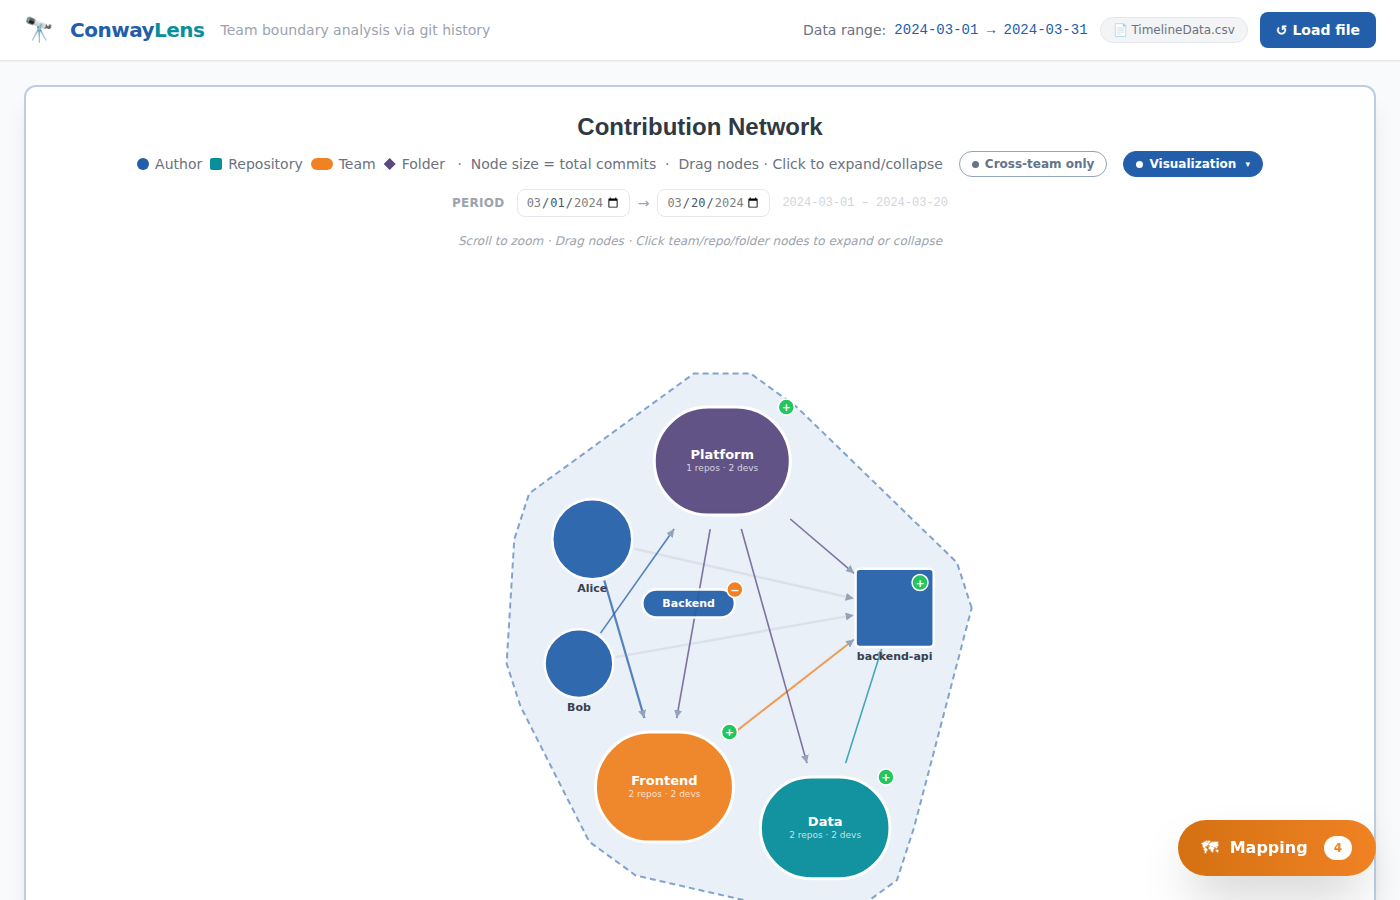
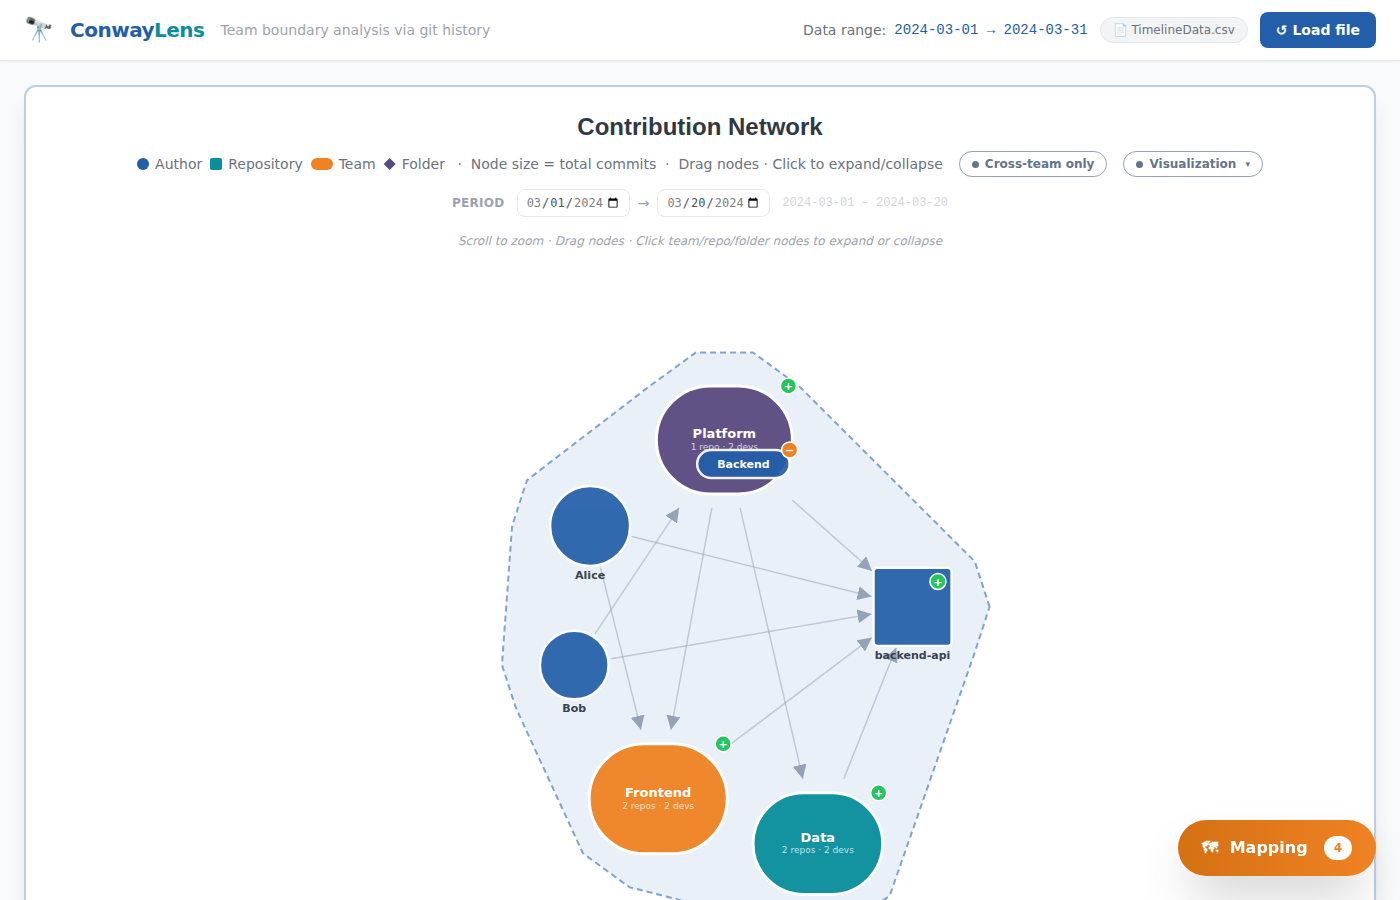
Improve default visibility and layout of contribution graph
- Edge weight (colored arrows + commit volume width) is now on by default
  so Conway violations are immediately visible without hunting in menus
- Arrowheads enlarged (8→14px) and use context-stroke so they match
  the edge color on cross-team edges
- Force repulsion and link distance scale with node count so all-
  expanded views spread out rather than collapsing to a dense center
- Anchor collapse pill repositioned above the cluster's topmost node
  instead of floating at the centroid where it overlapped other nodes
- Singular grammar: "1 repo" / "1 dev" in both node labels and tooltip

https://claude.ai/code/session_01F8cubb7Msre6DmWwvpHGnq

diff --git a/app/src/components/NetworkGraph.vue b/app/src/components/NetworkGraph.vue
@@ -102,7 +102,7 @@ const dims         = reactive({ w: 900, h: 600 });
 
 // Visualization panel state (ephemeral — not persisted)
 const vizOpen    = ref(false);
-const edgeWeight = ref(false);
+const edgeWeight = ref(true);
 const tooltip      = reactive({
   show: false, x: 0, y: 0,
   isLink: false,
@@ -124,7 +124,7 @@ const tooltipName = computed(() => {
 const tooltipDetail = computed(() => {
   const c = tooltip.commits.toLocaleString();
   if (tooltip.type === 'author') return `Author · ${c} commits`;
-  if (tooltip.type === 'team')   return `Team · ${tooltip.repoCount} repos · ${tooltip.authorCount} devs · ${c} commits`;
+  if (tooltip.type === 'team')   return `Team · ${tooltip.repoCount} ${tooltip.repoCount === 1 ? 'repo' : 'repos'} · ${tooltip.authorCount} ${tooltip.authorCount === 1 ? 'dev' : 'devs'} · ${c} commits`;
   if (tooltip.type === 'folder') return `Folder (depth ${tooltip.depth}) · ${c} commits`;
   return `Repository · ${c} commits`;
 });
@@ -313,9 +313,9 @@ function drawGraph() {
   svg.append('defs').append('marker')
     .attr('id', 'arrow')
     .attr('viewBox', '0 -5 10 10').attr('refX', 10).attr('refY', 0)
-    .attr('markerWidth', 8).attr('markerHeight', 8)
+    .attr('markerWidth', 14).attr('markerHeight', 14)
     .attr('markerUnits', 'userSpaceOnUse').attr('orient', 'auto')
-    .append('path').attr('d', 'M0,-5L10,0L0,5').attr('fill', EDGE_COLOR);
+    .append('path').attr('d', 'M0,-5L10,0L0,5').attr('fill', 'context-stroke');
 
   const root = svg.append('g');
   svg.call(d3.zoom().scaleExtent([0.2, 4]).on('zoom', e => root.attr('transform', e.transform)));
@@ -357,18 +357,19 @@ function drawGraph() {
     }
   }
 
+  // Scale repulsion and link distance with node count so all-expanded views don't collapse
+  const chargeScale = Math.max(1, nodes.length / 5);
+  const linkScale   = Math.max(1, Math.sqrt(nodes.length / 5));
+
   sim = d3.forceSimulation(nodes)
     .force('link',        d3.forceLink(links).id(d => d.id).distance(d => {
-      // Longer distance for team-to-team edges so team nodes spread apart
-      if (d.source.type === 'team' || d.target.type === 'team') return 280;
-      return 200;
+      if (d.source.type === 'team' || d.target.type === 'team') return 280 * linkScale;
+      return 200 * linkScale;
     }).strength(0.45))
-    .force('charge',      d3.forceManyBody().strength(d => d.type === 'team' ? -1200 : -700))
+    .force('charge',      d3.forceManyBody().strength(d => (d.type === 'team' ? -1200 : -700) * chargeScale))
     .force('center',      d3.forceCenter(w / 2, h / 2).strength(0.05))
     .force('x',           d3.forceX(d => {
       if (d.type === 'author') return w * 0.27;
-      // When all nodes are teams (collapsed default view), center them.
-      // When mixed with individual authors/repos, pull teams to right-center.
       if (d.type === 'team') {
         const hasIndividuals = nodes.some(n => n.type === 'author' || n.type === 'repo');
         return hasIndividuals ? w * 0.65 : w * 0.5;
@@ -480,7 +481,7 @@ function drawGraph() {
     .attr('dy', '1.1em')
     .attr('fill', 'rgba(255,255,255,0.75)').attr('font-size', '9px')
     .attr('pointer-events', 'none')
-    .text(d => `${d.repoCount} repos · ${d.authorCount} devs`);
+    .text(d => `${d.repoCount} ${d.repoCount === 1 ? 'repo' : 'repos'} · ${d.authorCount} ${d.authorCount === 1 ? 'dev' : 'devs'}`);
 
   // Folder nodes — diamond
   nodeEls.filter(d => d.type === 'folder')
@@ -661,21 +662,26 @@ function drawGraph() {
 
     nodeEls.attr('transform', d => `translate(${d.x ?? 0},${d.y ?? 0})`);
 
-    // Float each anchor pill at the centroid of its team's visible nodes
+    // Float each anchor pill above the topmost node of its team's cluster
     if (anchorEls) {
       anchorEls.attr('transform', function(t) {
         const authorIds = new Set(t.authors ?? []);
         const repoIds   = new Set(t.repos   ?? []);
-        let sumX = 0, sumY = 0, count = 0;
+        let minX = Infinity, maxX = -Infinity, minY = Infinity;
         for (const n of nodes) {
           if (n.x == null || n.y == null) continue;
           if (
             (n.type === 'author' && authorIds.has(n.id)) ||
             (n.type === 'repo'   && repoIds.has(n.id))   ||
             (n.type === 'folder' && repoIds.has(n.repoId))
-          ) { sumX += n.x; sumY += n.y; count++; }
+          ) {
+            minX = Math.min(minX, n.x);
+            maxX = Math.max(maxX, n.x);
+            minY = Math.min(minY, n.y - (n.r ?? 20));
+          }
         }
-        return count ? `translate(${sumX / count},${sumY / count})` : 'translate(-9999,-9999)';
+        if (minX === Infinity) return 'translate(-9999,-9999)';
+        return `translate(${(minX + maxX) / 2},${minY - 22})`;
       });
     }
   });
